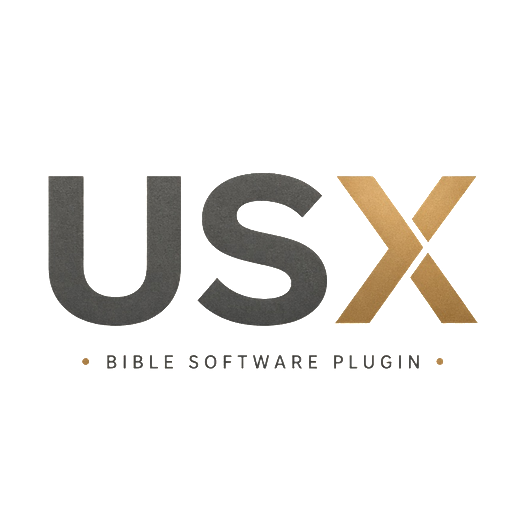
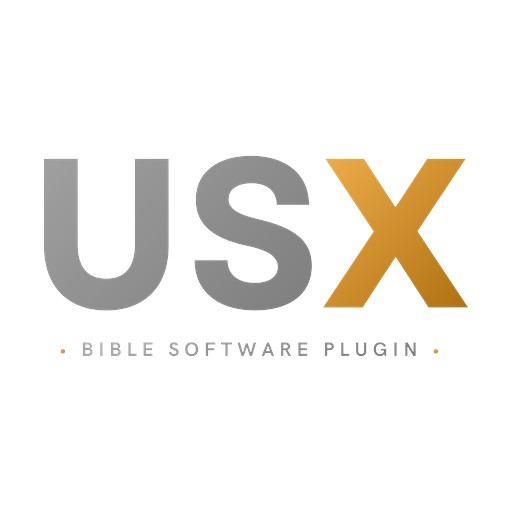
Release 0.3.6.
Use the new USX wordmark for the extension icon and the preview logo.

Changed region(s): [[0.0625, 0.2812, 0.9375, 0.7188]]

diff --git a/README.md b/README.md
@@ -54,7 +54,7 @@ code --install-extension kevinamundson.usx
 The `.vsix` for each numbered version is attached to its [GitHub release](https://github.com/kevinamundson/usx/releases). In Visual Studio Code, open the Extensions view, open the **...** menu, and choose **Install from VSIX...**. You can also run:
 
 ```bash
-code --install-extension usx-0.3.5.vsix
+code --install-extension usx-0.3.6.vsix
 ```
 
 `npm install` does not install this extension into Visual Studio Code.
@@ -75,7 +75,7 @@ Build a packaged copy from this source with:
 ```bash
 npm install
 npx @vscode/vsce package
-code --install-extension usx-0.3.5.vsix
+code --install-extension usx-0.3.6.vsix
 ```
 
 ## Checks
